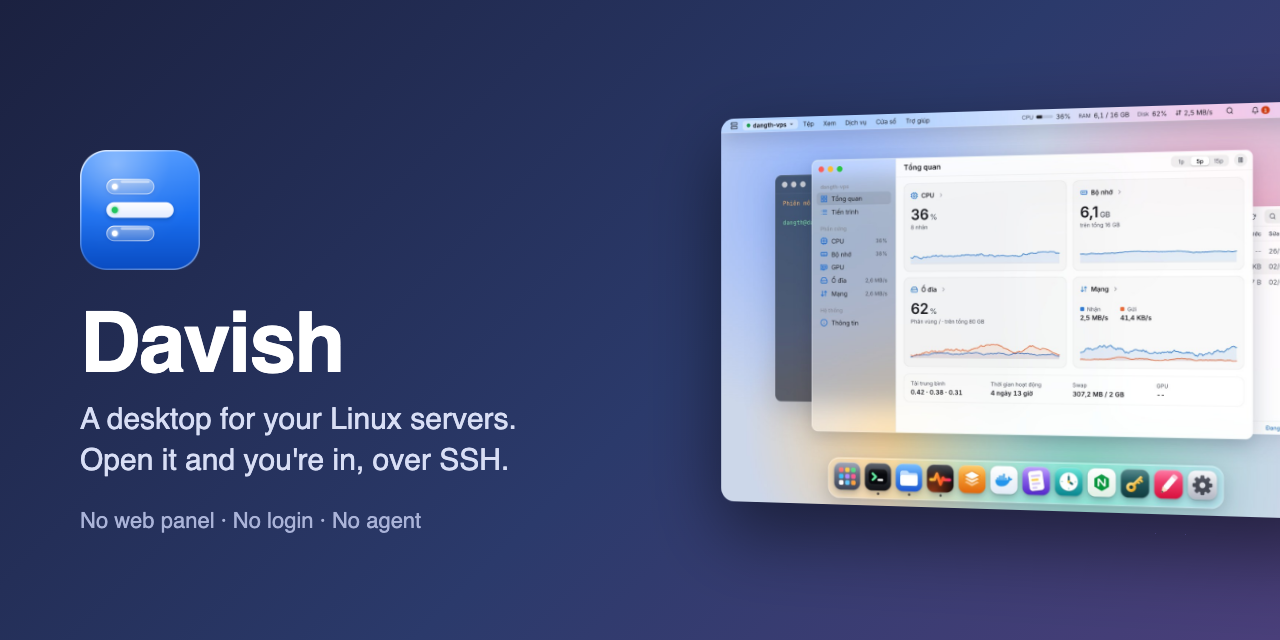
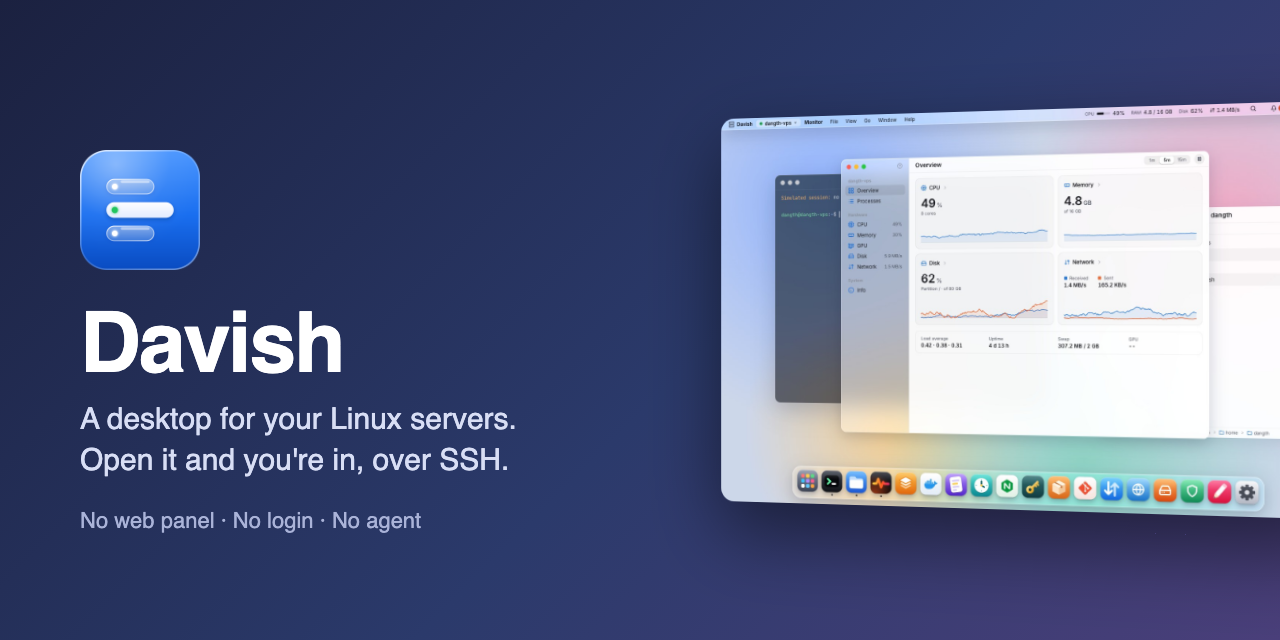
docs(repo): add a Chinese README and English screenshots
Davish was shared on X to Chinese readers with the README's desktop
screenshot, which shows the Vietnamese interface, so it read as a
Vietnamese-only app. README.zh-CN.md follows README.md, and every
README links the other languages.

The README's seven screenshots and the social preview are taken again
from the browser preview in English, under assets/screenshots/en/;
README.vi.md keeps the Vietnamese ones. FEATURES.md uses the English
ones it shares with the README and no longer says the interface is
Vietnamese only.

The browser preview's sample shop now follows the interface language,
so the Browser screenshot does not show Vietnamese inside English.

diff --git a/frontend/src/apps/browser/demo.ts b/frontend/src/apps/browser/demo.ts
@@ -1,5 +1,6 @@
 // What the Browser app shows in the plain browser preview and the demo
 // mode, where there is no server: a small web app as if on the VPS.
+import { lang } from '../../lib/i18n'
 import type { Address } from './address'
 
 const css = `
@@ -17,33 +18,68 @@ const css = `
   .hot{position:fixed;bottom:12px;right:14px;font-size:11px;color:#6b7385;background:#fff;border-radius:8px;padding:4px 8px;box-shadow:0 1px 3px #0002}
 `
 
-const orders: [string, string, string, string, string][] = [
-  ['#10482', 'Nguyễn Minh Anh', '1.250.000 ₫', 'paid', 'Đã thanh toán'],
-  ['#10481', 'Trần Quốc Bảo', '640.000 ₫', 'ship', 'Đang giao'],
-  ['#10480', 'Lê Thu Hà', '2.180.000 ₫', 'new', 'Mới'],
-  ['#10479', 'Phạm Gia Huy', '315.000 ₫', 'paid', 'Đã thanh toán'],
-  ['#10478', 'Võ Ngọc Lan', '980.000 ₫', 'ship', 'Đang giao'],
-]
+// The sample shop speaks the UI's language, so screenshots of each
+// language read as one.
+const sample = {
+  vi: {
+    nav: ['Tổng quan', 'Đơn hàng', 'Sản phẩm', 'Khách hàng'],
+    cards: [
+      ['Doanh thu hôm nay', '18,4 tr ₫', '▲ 12% so với hôm qua'],
+      ['Đơn mới', '42', '▲ 5'],
+      ['Đang giao', '17', ''],
+      ['Khách quay lại', '63%', ''],
+    ],
+    head: ['Đơn', 'Khách', 'Tổng', 'Trạng thái'],
+    orders: [
+      ['#10482', 'Nguyễn Minh Anh', '1.250.000 ₫', 'paid', 'Đã thanh toán'],
+      ['#10481', 'Trần Quốc Bảo', '640.000 ₫', 'ship', 'Đang giao'],
+      ['#10480', 'Lê Thu Hà', '2.180.000 ₫', 'new', 'Mới'],
+      ['#10479', 'Phạm Gia Huy', '315.000 ₫', 'paid', 'Đã thanh toán'],
+      ['#10478', 'Võ Ngọc Lan', '980.000 ₫', 'ship', 'Đang giao'],
+    ],
+    hmr: 'Vite HMR · đã kết nối',
+  },
+  en: {
+    nav: ['Overview', 'Orders', 'Products', 'Customers'],
+    cards: [
+      ["Today's revenue", '$7,420', '▲ 12% vs yesterday'],
+      ['New orders', '42', '▲ 5'],
+      ['Shipping', '17', ''],
+      ['Returning customers', '63%', ''],
+    ],
+    head: ['Order', 'Customer', 'Total', 'Status'],
+    orders: [
+      ['#10482', 'Emma Carter', '$129.00', 'paid', 'Paid'],
+      ['#10481', 'Liam Nguyen', '$64.50', 'ship', 'Shipping'],
+      ['#10480', 'Olivia Chen', '$218.00', 'new', 'New'],
+      ['#10479', 'Noah Patel', '$31.90', 'paid', 'Paid'],
+      ['#10478', 'Ava Müller', '$98.00', 'ship', 'Shipping'],
+    ],
+    hmr: 'Vite HMR · connected',
+  },
+}
 
 function shop(): string {
-  const rows = orders
+  const d = sample[lang === 'vi' ? 'vi' : 'en']
+  const rows = d.orders
     .map(
       ([id, who, total, kind, label]) =>
         `<tr><td>${id}</td><td>${who}</td><td>${total}</td><td><span class="tag ${kind}">${label}</span></td></tr>`,
     )
     .join('')
-  return `<!doctype html><html lang="vi"><head><meta charset="utf-8"><title>Davitek Shop · Admin</title><style>${css}</style></head><body>
-  <header><b>Davitek Shop</b><span>admin · shop.davitek.com</span><nav><a>Tổng quan</a><a>Đơn hàng</a><a>Sản phẩm</a><a>Khách hàng</a></nav></header>
+  const cards = d.cards
+    .map(
+      ([label, value, trend]) =>
+        `<div class="card"><small>${label}</small><div>${value}</div>${trend ? `<span class="up">${trend}</span>` : ''}</div>`,
+    )
+    .join('')
+  return `<!doctype html><html lang="${lang}"><head><meta charset="utf-8"><title>Davitek Shop · Admin</title><style>${css}</style></head><body>
+  <header><b>Davitek Shop</b><span>admin · shop.davitek.com</span><nav>${d.nav.map((n) => `<a>${n}</a>`).join('')}</nav></header>
   <main>
-    <div class="cards">
-      <div class="card"><small>Doanh thu hôm nay</small><div>18,4 tr ₫</div><span class="up">▲ 12% so với hôm qua</span></div>
-      <div class="card"><small>Đơn mới</small><div>42</div><span class="up">▲ 5</span></div>
-      <div class="card"><small>Đang giao</small><div>17</div></div>
-      <div class="card"><small>Khách quay lại</small><div>63%</div></div>
-    </div>
-    <table><thead><tr><th>Đơn</th><th>Khách</th><th>Tổng</th><th>Trạng thái</th></tr></thead><tbody>${rows}</tbody></table>
+    <div class="cards">${cards}</div>
+    <table><thead><tr>${d.head.map((h) => `<th>${h}</th>`).join('')}</tr></thead><tbody>${rows}</tbody></table>
   </main>
-  <div class="hot">⚡ Vite HMR · đã kết nối</div>
+  <div class="hot">⚡ ${d.hmr}</div>
 </body></html>`
 }
 

diff --git a/scripts/social-preview.html b/scripts/social-preview.html
@@ -11,5 +11,5 @@ p{font-size:30px;line-height:1.35;margin:0;color:#d8def5}
 <div class="l"><img class="i" src="../assets/icon/png/davish-1024.png"><h1>Davish</h1>
 <p>A desktop for your Linux servers.<br>Open it and you're in, over SSH.</p>
 <div class="t">No web panel · No login · No agent</div></div>
-<img class="s" src="../assets/screenshots/desktop.jpg">
+<img class="s" src="../assets/screenshots/en/desktop.jpg">
 </body></html>

diff --git a/README.zh-CN.md b/README.zh-CN.md
@@ -1,0 +1,170 @@
+<div align="center">
+
+<img src="assets/social-preview.png" alt="Davish：你的 Linux 服务器桌面" width="100%">
+
+# Davish
+
+**你的 Linux 服务器，就是一个桌面。**<br>
+终端、文件、服务、Docker、日志、cron、nginx、端口、浏览器、磁盘、登录安全、SSH 密钥、软件包和 git，全部走普通 SSH，集中在一个像操作系统一样的界面里。<br>
+服务器上什么都不用装。
+
+[![Stars](https://img.shields.io/github/stars/2hjaito/davish?color=f6cf8f)](https://github.com/2hjaito/davish/stargazers)
+[![Downloads](https://img.shields.io/endpoint?url=https%3A%2F%2Fraw.githubusercontent.com%2F2hjaito%2Fdavish%2Fstats%2Fdownloads.json)](https://github.com/2hjaito/davish/releases)
+[![Release](https://img.shields.io/github/v/release/2hjaito/davish?color=0a64d8)](https://github.com/2hjaito/davish/releases/latest)
+[![CI](https://github.com/2hjaito/davish/actions/workflows/ci.yml/badge.svg)](https://github.com/2hjaito/davish/actions/workflows/ci.yml)
+![Platforms](https://img.shields.io/badge/platform-macOS%20%7C%20Windows%20%7C%20Linux-6b7180)
+![Go](https://img.shields.io/badge/Go-1.27-00ADD8?logo=go&logoColor=white)
+![Svelte](https://img.shields.io/badge/Svelte-5-FF3E00?logo=svelte&logoColor=white)
+
+[English](README.md) · [Tiếng Việt](README.vi.md) · **简体中文**
+
+<img src="assets/screenshots/en/desktop.jpg" alt="Davish 桌面：终端、监控和文件" width="100%">
+
+</div>
+
+## 为什么选择 Davish
+
+- **打开就能用。** 没有登录页，也没有 Web 面板：Davish 用你的 SSH 密钥连上你上次使用的服务器，直接进入它的桌面。服务器上不会多出任何监听服务，所以不需要额外开放或保护新的端口。
+- **无 Agent。** Davish 只需要 `sshd` 和 SFTP。所有操作都从你的电脑通过 SSH 完成，不会往服务器上复制、安装或留下任何东西。
+- **每条命令都看得见。** 任何有破坏性的操作（停止服务、删除文件、重启容器、替换 crontab）在执行前都会显示完整的命令。命令日志记录了 Davish 代你执行过的所有操作。
+- **密码只存在钥匙串里。** 密码和私钥口令只保存在系统钥匙串中。Davish 从不保存也不代你输入 `sudo` 密码：需要 root 时，它会打开一个已经输入好命令的终端，由你自己按回车。
+- **离开时自动锁定。** 独立的锁屏密码，macOS 上支持 Touch ID；电脑唤醒、空闲一段时间或按 `⌘L` 时锁定。锁定期间会话照常运行，但解锁前不会向服务器发送任何操作。
+- **多台服务器，一个桌面。** 每台服务器是一个工作区（`⌘1`…`⌘9`），各自记住自己的窗口。拖动文件即可在服务器之间复制。
+- **自动更新。** 有新版本时会显示更新内容，可选择更新、稍后或跳过此版本；Davish 自动下载、校验签名并重启到新版本，无需重新安装。
+- **英文或越南文界面。** 在设置中选择语言；首次启动时跟随系统语言。
+- **直接使用你的 `~/.ssh/config`。** 一次导入其中的主机，包括密钥和 `ProxyJump`；Davish 只读取这个文件。堡垒机后面的服务器会经由堡垒机连接，每一跳都单独校验主机密钥，整条链路断开后会自动重连。
+
+## 功能
+
+**服务器上**
+
+- [终端](FEATURES.md#terminal)：多标签、GPU 渲染、可选的 powerline 提示符
+- [文件](FEATURES.md#files)：Finder 风格的 SFTP，拖放上传下载，跨服务器复制
+- [编辑器](FEATURES.md#editor)：基于 CodeMirror，原子保存并自动备份
+- [日志](FEATURES.md#logs)：journal、日志文件和容器日志，实时查看
+- [监控](FEATURES.md#monitor)：CPU、内存、磁盘、网络、GPU、进程
+
+**服务与应用**
+
+- [服务](FEATURES.md#services)：systemd 单元、状态、journal
+- [Docker](FEATURES.md#docker)：按 compose 项目分组的容器、镜像与镜像层、数据卷
+- [Cron](FEATURES.md#cron)：用自然语言描述的定时任务
+- [Nginx](FEATURES.md#nginx)：站点管理，重载前先执行 `nginx -t`，TLS 证书到期提醒
+- [软件包](FEATURES.md#packages)：优先显示安全更新，运行时管理；缺少 Docker、nginx、git 或数据库时一键给出安装命令
+- [Git](FEATURES.md#git)：状态、差异、提交图、fetch 和 pull
+- [桌面快捷方式](FEATURES.md#desktop-shortcuts)：把 `deploy.sh` 拖到桌面，双击运行，可随时停止
+
+**网络与安全**
+
+- [端口与隧道](FEATURES.md#ports--tunnels)：监听中的端口，隧道到 `127.0.0.1`
+- [浏览器](FEATURES.md#browser)：在 Davish 里直接打开服务器上的 `localhost:3000`
+- [磁盘](FEATURES.md#disk)：用目录树查看空间去向，说明哪些没能统计及原因，可删除和清理
+- [安全](FEATURES.md#security)：按 IP 统计的失败登录、ufw、fail2ban
+- [SSH 密钥](FEATURES.md#ssh-keys)：authorized_keys、部署密钥、本机密钥
+- [~/.ssh/config 与 ProxyJump](FEATURES.md#sshconfig-and-proxyjump)：导入主机，经由堡垒机连接
+
+**桌面**
+
+- [Spotlight 与 Launchpad](FEATURES.md#spotlight--launchpad)：按 `⌘K` 打开任何东西
+- [菜单栏与帮助](FEATURES.md#menu-bar-and-help)：所有命令和快捷键，每个应用都有 `?` 帮助
+- [应用锁](FEATURES.md#app-lock)：Touch ID 或密码，唤醒时锁定
+- [更新](FEATURES.md#updates)：一键更新到新版本，校验签名
+- [浅色与深色](FEATURES.md#light-and-dark)：跟随系统，或手动选择
+- [语言](FEATURES.md#language)：英文或越南文
+
+<table>
+  <tr>
+    <td><img src="assets/screenshots/en/browser.jpg" alt="在 Davish 里打开服务器上的 Web 应用"></td>
+    <td><img src="assets/screenshots/en/docker-images.jpg" alt="Docker 镜像"></td>
+  </tr>
+  <tr>
+    <td><img src="assets/screenshots/en/ports.jpg" alt="端口与隧道"></td>
+    <td><img src="assets/screenshots/en/git.jpg" alt="Git 提交图"></td>
+  </tr>
+  <tr>
+    <td><img src="assets/screenshots/en/security.jpg" alt="按 IP 统计的失败登录"></td>
+    <td><img src="assets/screenshots/en/disk.jpg" alt="磁盘空间去向"></td>
+  </tr>
+</table>
+
+**[每个应用的详细说明和截图（英文）→](FEATURES.md)**
+
+> 截图使用的是浏览器预览中的演示数据。
+
+## 安装
+
+每个 [Release](https://github.com/2hjaito/davish/releases) 都附带 macOS（通用版）、Windows 和 Linux 的安装包。
+
+- **macOS 12 或更高版本。** 打开 `Davish-…-macos-universal.pkg` 安装到"应用程序"。应用暂未签名，首次打开会被 macOS 拦截：点击 **完成**，然后打开 **系统设置 → 隐私与安全性**，在关于 Davish 的那一行点击 **仍要打开**（如果 `Davish.app` 也被拦截，再操作一次）。也可以对文件执行 `xattr -dr com.apple.quarantine`。
+- **Windows 10 或更高版本。** 运行 `Davish-…-windows-amd64-setup.exe`；如果缺少 WebView2 运行时会自动安装。Windows SmartScreen 可能提示未知发布者：选择 **更多信息** → **仍要运行**。
+- **Linux**，需要 GTK 3 和 WebKitGTK 4.1。
+
+### 服务器需要什么
+
+| 功能 | 要求 |
+|---|---|
+| 全部功能 | 带 SFTP 子系统的 OpenSSH 服务器 |
+| 服务、日志（journal） | systemd；读取系统日志需要用户在 `adm` 或 `systemd-journal` 组中 |
+| Docker | `docker` 命令行；用户在 `docker` 组中（缺少时 Davish 会给出安装命令） |
+| Cron | `crontab` |
+| Nginx | 使用 `sites-available` / `sites-enabled` 或 `conf.d` 的 nginx |
+
+需要 root 的操作（停止系统服务、编辑属于 root 的文件）会交给一个已输入 `sudo` 命令的终端，绝不会悄悄执行。
+
+## 键盘快捷键
+
+| 快捷键 | 操作 |
+|---|---|
+| `⌘K` | Spotlight |
+| `⌘1` … `⌘9` | 切换服务器工作区 |
+| `⌘W` · `⌘M` | 关闭 · 最小化窗口 |
+| `⌘,` | 设置 |
+| `⌘S` | 在编辑器中保存 |
+| `⌘F` · `⌘[` · `⌘]` · `⌘↑` | 文件：搜索、后退、前进、上一级 |
+| `⌘U` · `⌘D` | 文件：上传、下载 |
+| `⌘⌥S` | 文件：把选中的内容复制到另一台服务器 |
+| `⌘⌥L` | 传输窗口 |
+
+在 Windows 和 Linux 上用 `Ctrl` 代替 `⌘`。在终端里，`Ctrl` 快捷键会交给 shell。
+
+## 从源码构建
+
+需要：Go 1.27+、Node.js LTS、[Wails](https://wails.io) v2.17（`go install github.com/wailsapp/wails/v2/cmd/wails@v2.17.0`，然后运行 `wails doctor`）、golangci-lint v2，集成测试还需要 Docker。Linux 上另需 `libgtk-3-dev` 和 `libwebkit2gtk-4.1-dev`（构建时加 `-tags webkit2_41`）。
+
+```bash
+make frontend-install   # 仅首次
+wails dev               # 热重载运行
+wails build             # 打包到 build/bin/
+```
+
+### 测试
+
+```bash
+make check              # go vet、golangci-lint、go test、svelte-check、eslint、prettier、vitest
+
+make sshd-up            # 在 Docker 中启动两台临时 SSH 服务器（127.0.0.1:2222 和 :2223）
+make test-integration   # 对它们运行真实的 SSH、SFTP、systemd、Docker、cron 和 nginx 测试
+make sshd-down
+```
+
+集成测试只会连接 `test/sshd/` 中的容器，绝不会连接真实服务器。
+
+## 技术栈
+
+| 层 | 技术 |
+|---|---|
+| 后端 | Go · Wails v2 · `golang.org/x/crypto/ssh` · `pkg/sftp` · `go-keyring` |
+| 前端 | Svelte 5（runes）· TypeScript strict · Vite |
+| 组件 | xterm.js · CodeMirror 6 · 图标来自 [davi-icons](https://github.com/2hjaito/davi-icons) |
+
+## 更新日志
+
+见 [CHANGELOG.md](CHANGELOG.md)。
+
+## 许可证
+
+Davish 是基于 [GNU 通用公共许可证 v3.0](LICENSE) 的自由软件。贡献代码需要签署[贡献者许可协议](CLA.md)，详见 [CONTRIBUTING.md](CONTRIBUTING.md)。Davish 的名称和标志不在许可证范围内：见 [TRADEMARKS.md](TRADEMARKS.md)。
+
+## 代码签名政策
+
+Windows 版本的免费代码签名由 [SignPath.io](https://about.signpath.io) 提供，证书由 [SignPath Foundation](https://signpath.org) 颁发。团队角色、签名范围以及 Davish 会通过网络发送哪些内容：见 [CODE_SIGNING.md](CODE_SIGNING.md)。

diff --git a/FEATURES.md b/FEATURES.md
@@ -2,13 +2,13 @@
 
 **English** · [Tiếng Việt](FEATURES.vi.md) · [Back to README](README.md)
 
-Every app in Davish, what it does and what it runs on the server. The interface is in Vietnamese; screenshots show demo data from the browser preview.
+Every app in Davish, what it does and what it runs on the server. The interface is in English or Vietnamese; screenshots show demo data from the browser preview, and some are still of the Vietnamese interface.
 
 ## Terminal
 
 xterm.js with tabs, copy/paste, GPU rendering, and an optional powerline prompt injected into bash at login, with nothing written on the server.
 
-<img src="assets/screenshots/desktop.jpg" alt="Terminal, Monitor and Files" width="100%">
+<img src="assets/screenshots/en/desktop.jpg" alt="Terminal, Monitor and Files" width="100%">
 
 ## Files
 
@@ -52,7 +52,7 @@ Laid out like Docker Desktop. Containers in a table (ID, image, ports, CPU, memo
 
 <table><tr>
   <td><img src="assets/screenshots/docker.jpg" alt="Docker with a container in a restart loop"></td>
-  <td><img src="assets/screenshots/docker-images.jpg" alt="An image and its layers"></td>
+  <td><img src="assets/screenshots/en/docker-images.jpg" alt="An image and its layers"></td>
 </tr></table>
 
 ## Cron
@@ -106,7 +106,7 @@ Finds the repositories in your home, `/var/www`, `/srv` and `/opt`, or folders y
 **Clone a repository…** (SSH or HTTPS, folder, branch), **git init** and **Set a remote…** type the command into a terminal. For GitHub and GitLab over SSH, the host key they publish is added to `known_hosts` first; a button leads to creating a deploy key. **Deploy…** keeps a recipe per repository on your computer (pull, install, build, restart…) and runs it step by step in a terminal, stopping at the first step that fails. Davish looks at the repository (lockfile, `package.json` scripts, compose file, `go.mod`, `Makefile`) and at what runs the app from that folder (pm2, systemd, Docker compose), and offers the steps as switches: get the new code, install dependencies, build, restart the app, plus custom steps. Each step shows its exact command, and the choices are remembered. Deploy runs right away in a terminal; when a step needs sudo, the line is typed for you to press Enter and type the password. The terminal shows each step as done, running or failed with its time, a notification says when the deploy finished or which step failed, and the repository lists its last deploys with commit and duration.
 
 <table><tr>
-  <td><img src="assets/screenshots/git.jpg" alt="The commit graph of every branch"></td>
+  <td><img src="assets/screenshots/en/git.jpg" alt="The commit graph of every branch"></td>
   <td><img src="assets/screenshots/git-changes.jpg" alt="Changed files and a diff"></td>
 </tr></table>
 
@@ -114,7 +114,7 @@ Finds the repositories in your home, `/var/www`, `/srv` and `/opt`, or folders y
 
 Every TCP port the server listens on, with its process or container. Open one in Davish's own browser window, or forward it to `127.0.0.1` on your machine over the SSH connection you already have, open it in your browser or point a database tool at it, even as a domain name for nginx sites. Nothing is opened to the outside.
 
-<img src="assets/screenshots/ports.jpg" alt="Listening ports and a tunnel" width="100%">
+<img src="assets/screenshots/en/ports.jpg" alt="Listening ports and a tunnel" width="100%">
 
 **Open to the Internet** tells, for each port, whether the Internet can reach it, from where it listens, ufw's rules (read with `sudo -n` when needed) and Docker, whose published ports bypass ufw. Open or close a port with `ufw`, typed into a terminal; the port of the SSH session in use is never closed, and closing 80/443 warns about nginx sites. Databases and admin tools found open (Redis, PostgreSQL, Grafana…) are listed with one command that closes them all.
 
@@ -122,7 +122,7 @@ Every TCP port the server listens on, with its process or container. Open one in
 
 Type `localhost:3000` and see the web app running on the server, inside a Davish window: back, forward, reload, redirects and websockets (hot reload) stay on the server, logins keep working. It goes over SSH through a proxy on a random `127.0.0.1` port, so nothing clashes with what runs on your machine, and the page lives at its own origin, never able to reach Davish.
 
-<img src="assets/screenshots/browser.jpg" alt="A web app on the server, opened inside Davish" width="100%">
+<img src="assets/screenshots/en/browser.jpg" alt="A web app on the server, opened inside Davish" width="100%">
 
 ## Disk
 
@@ -130,7 +130,7 @@ Where each disk's space goes, from one scan of the whole disk (as root through `
 
 Delete a folder or file, or empty a file such as a log so the program writing it carries on, after seeing the exact command; anything from 1 GB, or a folder with content, asks for its name. System folders, package databases, Docker's and databases' data and home folders are refused, and root's files go to a terminal with `sudo`. Cleanups list the space they free: Docker images, stopped containers, build cache, volumes (flagged as data) and container logs, the journal, rotated logs, package caches, crash dumps, old temporary files, old snap revisions, `~/.cache` and the npm cache, each with its exact command. A full-disk alert opens it at the right mount.
 
-<p><img src="assets/screenshots/disk.jpg" alt="Disk overview: what is measured, what is not and why, deleted files still open"></p>
+<p><img src="assets/screenshots/en/disk.jpg" alt="Disk overview: what is measured, what is not and why, deleted files still open"></p>
 
 <table><tr>
   <td><img src="assets/screenshots/disk-tree.jpg" alt="Folders as a tree, Docker's containers selected"></td>
@@ -141,7 +141,7 @@ Delete a folder or file, or empty a file such as a log so the program writing it
 
 Who logs in over SSH and who keeps trying: failed attempts grouped by address with the names they tried, recent logins, ufw and fail2ban. Block an address or turn password logins off with a `sudo` command typed into a terminal, checked by `sshd -t` before the reload.
 
-<img src="assets/screenshots/security.jpg" alt="Failed logins grouped by address" width="100%">
+<img src="assets/screenshots/en/security.jpg" alt="Failed logins grouped by address" width="100%">
 
 ## SSH keys
 

diff --git a/README.md b/README.md
@@ -16,9 +16,9 @@ Nothing to install on the server.
 ![Go](https://img.shields.io/badge/Go-1.27-00ADD8?logo=go&logoColor=white)
 ![Svelte](https://img.shields.io/badge/Svelte-5-FF3E00?logo=svelte&logoColor=white)
 
-**English** · [Tiếng Việt](README.vi.md)
+**English** · [Tiếng Việt](README.vi.md) · [简体中文](README.zh-CN.md)
 
-<img src="assets/screenshots/desktop.jpg" alt="Davish desktop with Terminal, Monitor and Files" width="100%">
+<img src="assets/screenshots/en/desktop.jpg" alt="Davish desktop with Terminal, Monitor and Files" width="100%">
 
 </div>
 
@@ -74,16 +74,16 @@ Nothing to install on the server.
 
 <table>
   <tr>
-    <td><img src="assets/screenshots/browser.jpg" alt="A web app on the server, inside Davish"></td>
-    <td><img src="assets/screenshots/docker-images.jpg" alt="Docker image layers"></td>
+    <td><img src="assets/screenshots/en/browser.jpg" alt="A web app on the server, inside Davish"></td>
+    <td><img src="assets/screenshots/en/docker-images.jpg" alt="Docker image layers"></td>
   </tr>
   <tr>
-    <td><img src="assets/screenshots/ports.jpg" alt="Ports and tunnels"></td>
-    <td><img src="assets/screenshots/git.jpg" alt="Git commit graph"></td>
+    <td><img src="assets/screenshots/en/ports.jpg" alt="Ports and tunnels"></td>
+    <td><img src="assets/screenshots/en/git.jpg" alt="Git commit graph"></td>
   </tr>
   <tr>
-    <td><img src="assets/screenshots/security.jpg" alt="Failed logins by address"></td>
-    <td><img src="assets/screenshots/disk.jpg" alt="What fills the disk"></td>
+    <td><img src="assets/screenshots/en/security.jpg" alt="Failed logins by address"></td>
+    <td><img src="assets/screenshots/en/disk.jpg" alt="What fills the disk"></td>
   </tr>
 </table>
 

diff --git a/README.vi.md b/README.vi.md
@@ -16,7 +16,7 @@ Không cài gì lên server.
 ![Go](https://img.shields.io/badge/Go-1.27-00ADD8?logo=go&logoColor=white)
 ![Svelte](https://img.shields.io/badge/Svelte-5-FF3E00?logo=svelte&logoColor=white)
 
-[English](README.md) · **Tiếng Việt**
+[English](README.md) · **Tiếng Việt** · [简体中文](README.zh-CN.md)
 
 <img src="assets/screenshots/desktop.jpg" alt="Desktop Davish với Terminal, Monitor và Files" width="100%">
 
